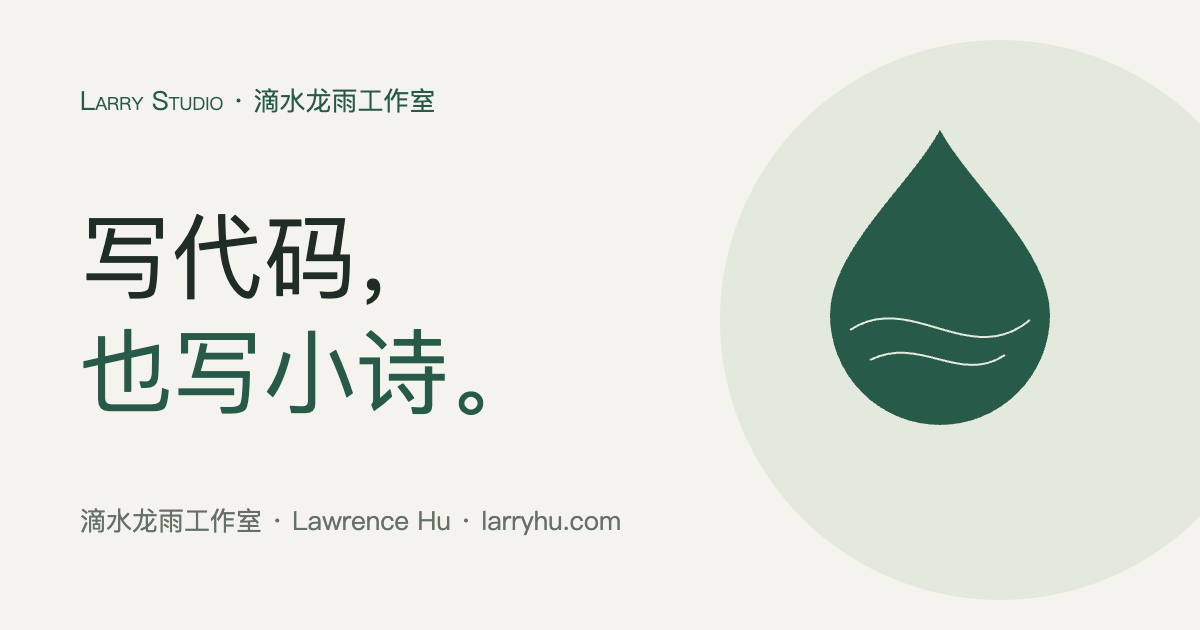
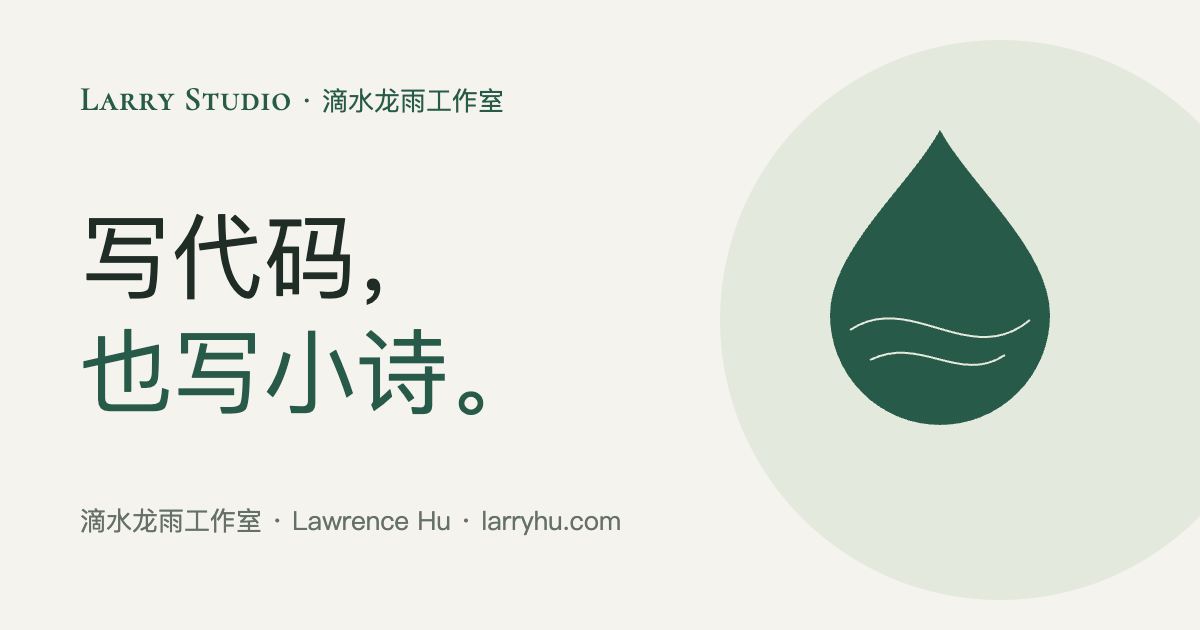
style: give the studio wordmark a literary serif

Changed region(s): [[0.0617, 0.1206, 0.4317, 0.181]]

diff --git a/app/globals.css b/app/globals.css
@@ -2,6 +2,7 @@
 
 @font-face { font-family: "Studio Sans"; src: url('/fonts/dm-sans.woff2') format('woff2'); font-weight: 400 700; font-style: normal; font-display: swap; }
 @font-face { font-family: "Studio Serif"; src: url('/fonts/noto-serif-sc.woff2') format('woff2'); font-weight: 400 700; font-style: normal; font-display: swap; }
+@font-face { font-family: "Studio Wordmark"; src: url('/fonts/cormorant-sc-600.woff2') format('woff2'); font-weight: 600; font-style: normal; font-display: swap; }
 
 :root {
   --paper: #f5f3ed;
@@ -13,6 +14,7 @@
   --rust: #a34d32;
   --serif: "Studio Serif", "Songti SC", serif;
   --sans: "Studio Sans", "PingFang SC", "Microsoft YaHei", sans-serif;
+  --wordmark: "Studio Wordmark", "Palatino Linotype", Palatino, serif;
 }
 
 * { box-sizing: border-box; }
@@ -48,9 +50,9 @@ svg { flex-shrink: 0; }
 .brand { display: flex; align-items: center; gap: 9px; font-size: 22px; font-weight: 650; letter-spacing: -.8px; }
 .brand > svg { width: 31px; height: 34px; color: var(--green); }
 .brand-copy { display: flex; flex-direction: column; gap: 5px; }
-.brand-name { line-height: 1.1; white-space: nowrap; font-variant-caps: small-caps; letter-spacing: 0; }
+.brand-name { font-family: var(--wordmark); font-size: 30px; font-weight: 600; line-height: 1; white-space: nowrap; font-variant-caps: normal; font-synthesis: none; letter-spacing: .025em; }
 .brand-chinese { font-size: 9px; font-weight: 400; line-height: 1.4; letter-spacing: .15em; color: var(--muted); }
-.brand-light { font-weight: 450; }
+.brand-light { font-weight: inherit; }
 .brand-period { color: var(--rust); }
 .desktop-nav { display: flex; align-items: center; gap: 32px; margin-left: auto; margin-right: 50px; font-size: 12px; }
 .desktop-nav a { padding-block: 10px; position: relative; }
@@ -182,7 +184,7 @@ svg { flex-shrink: 0; }
 .site-footer { border-top: 1px solid var(--line); padding-top: 39px; }
 .footer-top { display: flex; align-items: center; justify-content: space-between; gap: 30px; padding-bottom: 40px; }
 .footer-signature { font-family: var(--serif); font-size: 23px; font-weight: 600; letter-spacing: -.04em; }
-.footer-signature span { display: block; font-family: var(--sans); font-size: 9px; font-weight: 400; font-variant-caps: small-caps; letter-spacing: .1em; margin-top: 5px; }
+.footer-signature span { display: block; font-family: var(--wordmark); font-size: 15px; font-weight: 600; font-variant-caps: normal; font-synthesis: none; line-height: 1.2; letter-spacing: .04em; margin-top: 7px; }
 .footer-top > p { color: var(--muted); font-size: 11px; line-height: 2; }
 .footer-top > p span { font-size: 10px; }
 .back-top { display: flex; align-items: center; gap: 13px; font-size: 8px; letter-spacing: .1em; }
@@ -313,6 +315,7 @@ svg { flex-shrink: 0; }
   .header-inner { height: 70px; }
   .brand { font-size: 20px; }
   .brand > svg { width: 27px; height: 30px; }
+  .brand-name { font-size: 28px; }
   .desktop-nav { display: none; }
   .header-actions { margin-left: auto; gap: 16px; }
   .language-button { font-size: 11px; min-height: 40px; }
@@ -392,6 +395,11 @@ svg { flex-shrink: 0; }
   .reading-meta { font-size: 10px; gap: 15px; flex-wrap: wrap; }
   .poem-full { font-size: 15px; line-height: 2.4; letter-spacing: .02em; }
   .poem-full p + p { margin-top: 30px; }
+}
+@media (max-width: 360px) {
+  .brand-name { font-size: 24px; letter-spacing: .015em; }
+  .header-inner { gap: 12px; }
+  .header-actions { gap: 10px; }
 }
 @media (prefers-reduced-motion: reduce) {
   html { scroll-behavior: auto; }

diff --git a/app/layout.tsx b/app/layout.tsx
@@ -23,6 +23,7 @@ export default function RootLayout({ children }: Readonly<{ children: React.Reac
   return (
     <html lang="zh-CN" suppressHydrationWarning>
       <head>
+        <link rel="preload" href="/fonts/cormorant-sc-600.woff2" as="font" type="font/woff2" crossOrigin="anonymous" />
         <link rel="preload" href="/fonts/dm-sans.woff2" as="font" type="font/woff2" crossOrigin="anonymous" />
         <link rel="preload" href="/fonts/noto-serif-sc.woff2" as="font" type="font/woff2" crossOrigin="anonymous" />
         <meta name="theme-color" content="#f5f3ed" />

diff --git a/README.md b/README.md
@@ -45,7 +45,7 @@ npm run deploy
 - 首页与布局：`components/home.tsx`、`app/globals.css`。
 - App 名称、介绍、主页和下载链接：`content/apps.ts`。
 - 诗歌全文：`content/poems.json`。新增诗歌会自动生成阅读页和网站地图。
-- 字体为本站托管的 DM Sans 与 Noto Serif SC 子集；许可位于 `public/fonts/`。如新增的汉字不在子集中，会使用系统宋体后备字体。
+- 字标使用 Cormorant SC 的原生小型大写字形，正文使用 DM Sans 与 Noto Serif SC 子集，均由本站托管；许可位于 `public/fonts/`。如新增的汉字不在子集中，会使用系统宋体后备字体。
 
 ## App 主页
 
